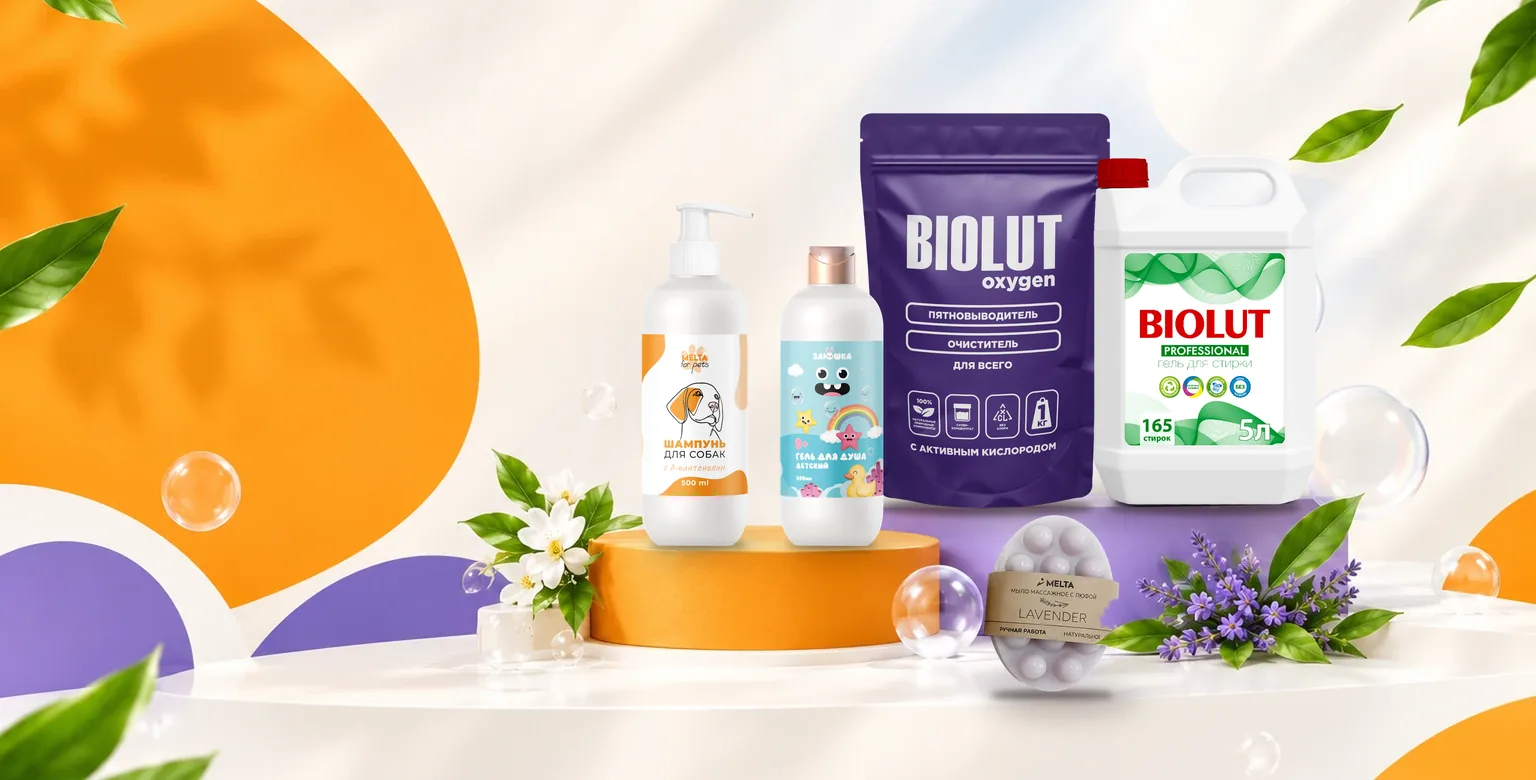
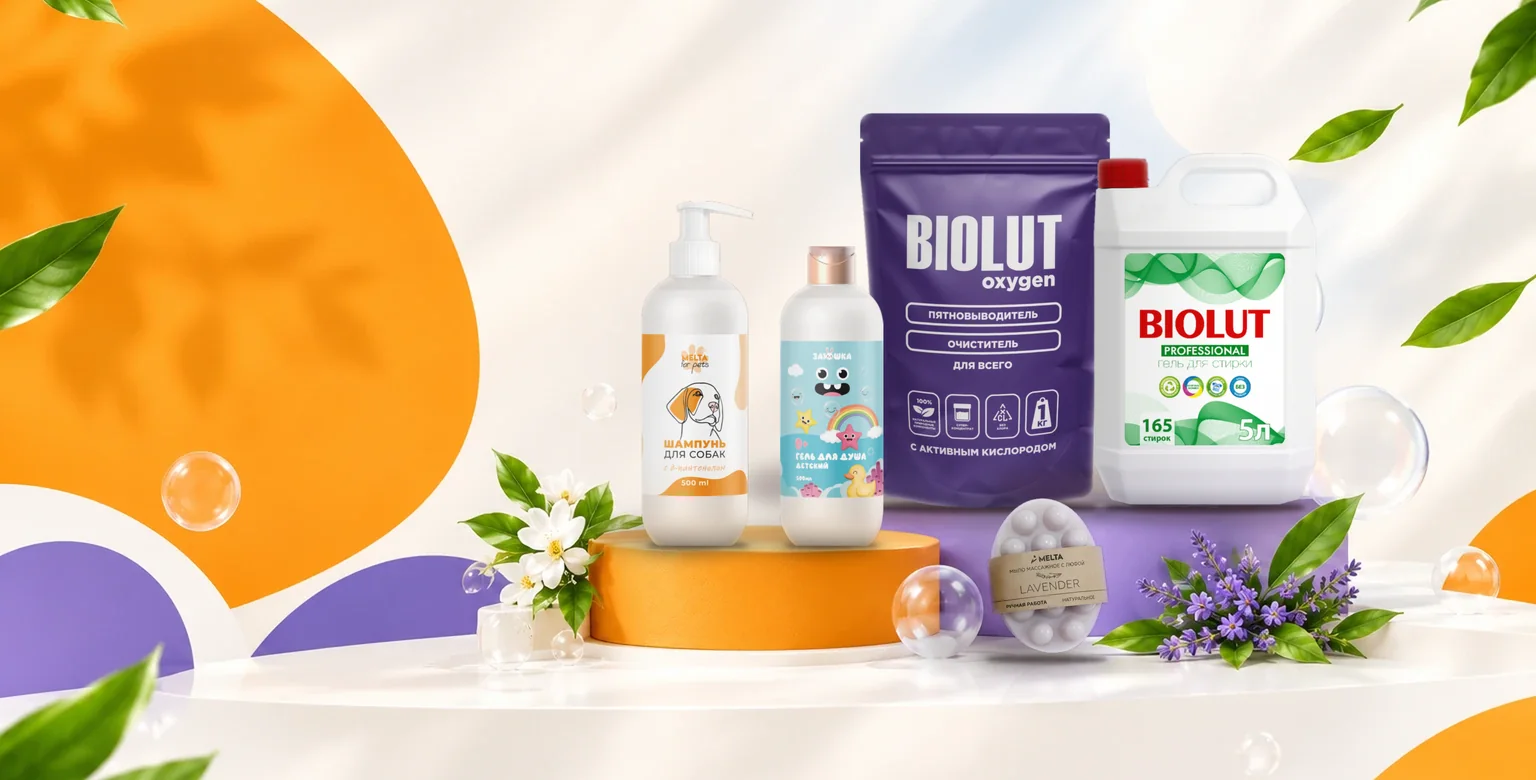
Вариант 7: товары на первом слайде вписаны в свет сцены (тени, рефлексы, мягкие края)
Claude-Session: https://claude.ai/code/session_01NrjMZLUvLXUEoWuvL9qRjd

diff --git a/v7/index.html b/v7/index.html
@@ -48,7 +48,7 @@
 <main id="main">
 
   <section class="hero hero--slide">
-    <img class="hero__bg" src="../assets/products/hero-slide-1x.webp" srcset="../assets/products/hero-slide-1x.webp 1536w, ../assets/products/hero-slide.webp 3072w" sizes="100vw" alt="Продукция Melta на подиумах: шампунь для собак, детский гель «Заюшка», Biolut Oxygen, гель для стирки Biolut 5 л и мыло Lavender" width="1536" height="780">
+    <img class="hero__bg" src="../assets/products/hero-slide-1x.webp?v=2" srcset="../assets/products/hero-slide-1x.webp?v=2 1536w, ../assets/products/hero-slide.webp?v=2 3072w" sizes="100vw" alt="Продукция Melta на подиумах: шампунь для собак, детский гель «Заюшка», Biolut Oxygen, гель для стирки Biolut 5 л и мыло Lavender" width="1536" height="780">
     <div class="hero__content">
       <div class="container">
         <div class="hero__text">
